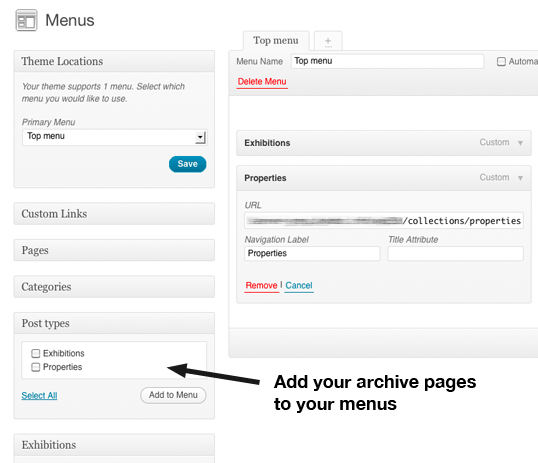
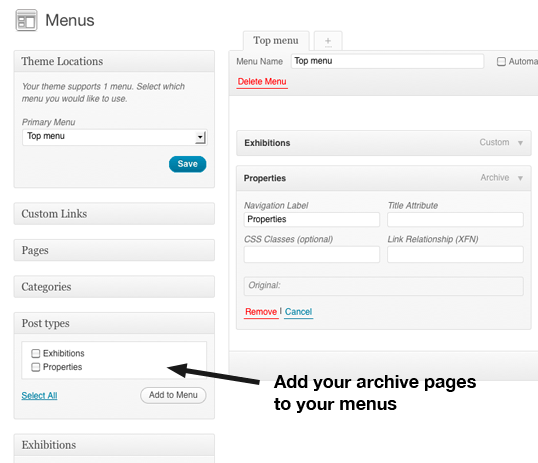
SF Archiver 1.1 : menus meta box + French translation + contextual help
git-svn-id: https://plugins.svn.wordpress.org/sf-archiver/trunk@516339 b8457f37-d9ea-0310-8a92-e5e31aec5664

diff --git a/admin/w3p-acpt-admin.inc.php b/admin/w3p-acpt-admin.inc.php
@@ -3,7 +3,7 @@
 /* Settings for the administration page */
 add_action( 'admin_init', 'w3p_acpt_register_settings' );
 function w3p_acpt_register_settings() {
-	register_setting( 'w3p-acpt-settings', '_w3p_acpt', 'w3p_acpt_satanize' );
+	register_setting( 'w3p-acpt-settings', '_w3p_acpt', 'w3p_acpt_sanitize' );
 }
 
 
@@ -131,8 +131,8 @@ function w3p_acpt_settings_page() {
 }
 
 
-/* Satanize options */
-function w3p_acpt_satanize($options) {
+/* Sanitize options */
+function w3p_acpt_sanitize($options) {
 	if ( isset($options['delete_options']) && (int) $options['delete_options'] == 1 )
 		return;
 
@@ -208,7 +208,7 @@ function w3p_acpt_contextual_help($help, $screen_id, $screen) {
 
 	$txt4 = '<p>'.__('You can even specify a new slug for the archive page or the single pages.', W3P_ACPT_DOMAIN).'</p>'.
 			'<p>'.__("Hint: you can use sub-slugs like &#8217;sub-slug/slug&#8217;, &#8217;collections/summer/tee-shirts&#8217;...", W3P_ACPT_DOMAIN).'</p>'.
-			'<p>'.__("Don&#8217;t forget that the RSS url change at the same time, and the menu link does&#8217;t update by itself.", W3P_ACPT_DOMAIN).'</p>';
+			'<p>'.__("Don&#8217;t forget that the RSS url change at the same time.", W3P_ACPT_DOMAIN).'</p>';
 	$helpArr[] = array(
 		'id'		=> 'slugs',
 		'title'		=> __('Slugs', W3P_ACPT_DOMAIN),
@@ -223,8 +223,7 @@ function w3p_acpt_contextual_help($help, $screen_id, $screen) {
 		'content'	=> $txt5
 	);
 
-	$txt6 = '<p>'.sprintf(__('Go to Appearance -> %s, look for the box called &#171;&#160;Post types&#160;&#187;, add your custom post type to your menu :)', W3P_ACPT_DOMAIN), '<a href="'.admin_url('nav-menus.php').'">'.__('Menus').'</a>').'</p>'.
-			'<p>'.__("Don&#8217;t forget to change your menu link if you change your archive slug (delete the link in the menu and add it again).", W3P_ACPT_DOMAIN).'</p>';
+	$txt6 = '<p>'.sprintf(__('Go to Appearance -> %s, look for the box called &#171;&#160;Post types&#160;&#187;, add your custom post type to your menu :)', W3P_ACPT_DOMAIN), '<a href="'.admin_url('nav-menus.php').'">'.__('Menus').'</a>').'</p>';
 	$helpArr[] = array(
 		'id'		=> 'whats-next',
 		'title'		=> __('What&#8217;s next?', W3P_ACPT_DOMAIN),
@@ -253,61 +252,94 @@ function w3p_acpt_contextual_help($help, $screen_id, $screen) {
 
 /* Metabox for CPTs in Apperance -> Menus */
 add_action('admin_head-nav-menus.php', 'w3p_acpt_add_nav_menu_metabox');
-function w3p_acpt_add_nav_menu_metabox() {
-	$post_types = get_post_types( array( 'public' => true, 'show_in_nav_menus' => true, 'has_archive' => true ), 'object' );
+function w3p_acpt_add_nav_menu_metabox( $object ) {
+	$post_types = get_post_types( array( 'show_in_nav_menus' => true, 'has_archive' => true ), 'object' );
 	if ( count($post_types) )
-		add_meta_box( 'post-types', __('Post types', W3P_ACPT_DOMAIN), 'w3p_acpt_nav_menu_metabox', 'nav-menus', 'side', 'default', $post_types );
+		add_meta_box( 'add-cpt-archive', __('Post types', W3P_ACPT_DOMAIN), 'w3p_acpt_nav_menu_metabox', 'nav-menus', 'side', 'default' );
+	return $object;
 }
 
 
 /* The metabox */
-function w3p_acpt_nav_menu_metabox( $object, $post_types ) {
-	global $_nav_menu_placeholder, $nav_menu_selected_id, $locale;
-	$types = $post_types['args'];
-	?>
-	<div id="post-types" class="posttypesdiv">
+function w3p_acpt_nav_menu_metabox() {
+	global $nav_menu_selected_id, $locale;
+	$post_types = get_post_types( array( 'show_in_nav_menus' => true, 'has_archive' => true ), 'object' );
 
-		<div id="tabs-panel-post-types-all" class="tabs-panel tabs-panel-view-all tabs-panel-active" style="border-style:solid;border-width:1px;overflow:auto;padding:.5em .9em;">
-			<ul id="post-typeschecklist" class="list:post-types categorychecklist form-no-clear form-no-clear" style="margin:0">
+	foreach ( $post_types as &$post_type ) {
+		$post_type->db_id = 0;
+		$post_type->object = 'cpt-archive';
+		$post_type->object_id = $post_type->name;
+		$post_type->menu_item_parent = 0;
+		$post_type->type = $post_type->name;
+		$post_type->title = $post_type->labels->name;
+		$post_type->url = '';
+		$post_type->target = '';
+		$post_type->attr_title = '';
+		$post_type->classes = array();
+		$post_type->xfn = '';
+	}
+
+	$walker = new Walker_Nav_Menu_Checklist( array() );
+
+	?>
+	<div id="cpt-archive" class="cpt-archivediv">
+		<div id="cpt-archive-all" class="tabs-panel tabs-panel-view-all tabs-panel-active" style="height:auto;max-height:205px;border-style:solid;border-width:1px;overflow:auto;padding:.5em .9em;">
+			<ul id="ctp-archivechecklist" class="list:cpt-archive categorychecklist form-no-clear" style="margin:0;">
 				<?php
-				$old_locale = $locale;
-				if ( class_exists('SitePress') ) {		// WPML support : if we're building a menu in another language, switch to this one
-					global $sitepress;
-					$locale = $sitepress->get_locale($sitepress->get_current_language());
-				}
-				$checked = isset($_GET['post-types-tab'], $_GET['selectall']) && $_GET['post-types-tab'] == 'all' && $_GET['selectall'] == 1 ? ' checked="checked"' : '';
-				foreach ( $types as $type => $obj ) {
-					$_nav_menu_placeholder = ( 0 > $_nav_menu_placeholder ) ? intval($_nav_menu_placeholder) - 1 : -1; ?>
-					<li>
-						<label class="menu-item-title">
-							<input type="checkbox" name="menu-item[<?php echo $_nav_menu_placeholder; ?>][menu-item-object-id]" class="menu-item-checkbox" value="<?php echo $type; ?>"<?php echo $checked; ?>/> <?php echo $obj->labels->name; ?>
-						</label>
-						<input type="hidden" name="menu-item[<?php echo $_nav_menu_placeholder; ?>][menu-item-object]" class="menu-item-object" value="post-type"/>
-						<input type="hidden" name="menu-item[<?php echo $_nav_menu_placeholder; ?>][menu-item-type]" class="menu-item-type" value="custom"/>
-						<input type="hidden" name="menu-item[<?php echo $_nav_menu_placeholder; ?>][menu-item-title]" class="menu-item-title" value="<?php echo $obj->labels->name; ?>"/>
-						<input type="hidden" name="menu-item[<?php echo $_nav_menu_placeholder; ?>][menu-item-url]" class="menu-item-url" value="<?php echo get_post_type_archive_link( $type ); ?>"/>
-					</li>
-					<?php
-				}
-				$locale = $old_locale;					// Back to the administration language
+				$checkbox_items = walk_nav_menu_tree( array_map('wp_setup_nav_menu_item', $post_types), 0, (object) array( 'walker' => $walker) );
+
+				if ( isset( $_REQUEST['cpt-archive-tab'] ) && $_REQUEST['cpt-archive-tab'] == 'all' && ! empty( $_REQUEST['selectall'] ) )
+					$checkbox_items = preg_replace('/(type=(.)checkbox(\2))/', '$1 checked=$2checked$2', $checkbox_items);
+				echo $checkbox_items;
 				?>
 			</ul>
 		</div><!-- /.tabs-panel -->
-
-		<p class="button-controls">
-			<span class="list-controls">
-				<a href="<?php echo esc_url(add_query_arg( array( 'selectall' => 1, 'post-types-tab' => 'all' ) )); ?>#post-types" class="select-all"><?php _e('Select All'); ?></a>
-			</span>
-
-			<span class="add-to-menu">
-				<img class="waiting" src="<?php echo esc_url( admin_url( 'images/wpspin_light.gif' ) ); ?>" alt="" />
-				<input type="submit"<?php disabled( $nav_menu_selected_id, 0 ); ?> class="button-secondary submit-add-to-menu" value="<?php esc_attr_e('Add to Menu'); ?>" name="add-post-types-menu-item" id="submit-post-types" />
-			</span>
-		</p>
-
 	</div>
+
+	<p class="button-controls">
+		<span class="list-controls">
+			<a href="<?php echo esc_url(add_query_arg( array( 'selectall' => 1, 'cpt-archive-tab' => 'all' ) )); ?>#cpt-archive" class="select-all"><?php _e('Select All'); ?></a>
+		</span>
+
+		<span class="add-to-menu">
+			<img class="waiting" src="<?php echo esc_url( admin_url( 'images/wpspin_light.gif' ) ); ?>" alt="" />
+			<input type="submit"<?php disabled( $nav_menu_selected_id, 0 ); ?> class="button-secondary submit-add-to-menu" value="<?php esc_attr_e('Add to Menu'); ?>" name="add-ctp-archive-menu-item" id="submit-cpt-archive" />
+		</span>
+	</p>
 	<?php
 }
+
+
+/* Modify the "type_label" + add the "Original" link url */
+add_filter( 'wp_setup_nav_menu_item', 'w3p_acpt_nav_menu_type_label' );
+function w3p_acpt_nav_menu_type_label( $menu_item ) {
+	if ( isset($menu_item->object) && $menu_item->object == 'cpt-archive' ) {
+		$menu_item->type_label = __( 'Archive' );
+		$menu_item->url = get_post_type_archive_link( $menu_item->type );		// Adding this url is useless since we can't add the link name
+	}
+	return $menu_item;
+}
+
+
+
+
+
+
+
+
+
+
+
+
+
+
+
+
+
+
+
+
+
 
 
 ?>

diff --git a/w3p-archiver.php b/w3p-archiver.php
@@ -3,7 +3,7 @@
 Plugin Name: SF Archiver
 Plugin URI: http://www.screenfeed.fr/archi/
 Description: A simple way to display archive pages for your custom post types
-Version: 1.0
+Version: 1.1
 Author: Grégory Viguier
 Author URI: http://www.screenfeed.fr/greg/
 License: GPLv3
@@ -12,7 +12,7 @@ Require: WordPress 3.3+
 
 define( 'W3P_ACPT_PLUGIN_NAME',	'SF Archiver' );
 define( 'W3P_ACPT_PAGE_NAME',	'w3p_acpt_config' );
-define( 'W3P_ACPT_VERSION',		'1.0' );
+define( 'W3P_ACPT_VERSION',		'1.1' );
 define( 'W3P_ACPT_DOMAIN',		'w3p-acpt' );
 define( 'W3P_ACPT_FILE',		__FILE__ );
 define( 'W3P_ACPT_DIRNAME',		basename( dirname( W3P_ACPT_FILE ) ) );
@@ -33,6 +33,20 @@ if (is_admin()) {
 	include_once(W3P_ACPT_PLUGIN_DIR.'/admin/w3p-acpt-admin.inc.php');								// Admin
 
 } else {
+
+	add_filter( 'wp_get_nav_menu_items', 'cpt_archive_menu_filter', 10, 3 );						// Alter the URL for cpt-archive objects
+	function cpt_archive_menu_filter( $items, $menu, $args ) {
+		foreach ( $items as &$item ) {
+			if ( $item->object != 'cpt-archive' )
+				continue;
+			$item->url = get_post_type_archive_link( $item->type );
+			if ( get_query_var( 'post_type' ) == $item->type ) {
+				$item->classes []= 'current-menu-item';
+				$item->current = true;
+			}
+		}
+		return $items;
+	}
 
 	add_action('pre_get_posts', 'w3p_acpt_ppp');													// Posts per page limit and CPTs on posts page
 	function w3p_acpt_ppp($q) {
